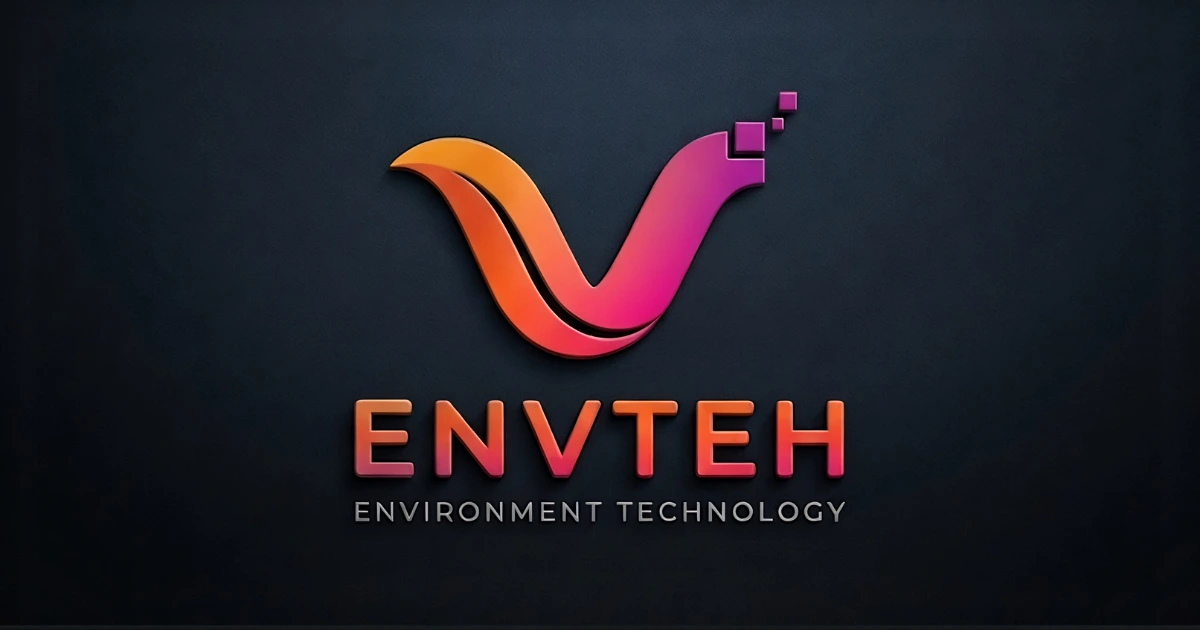
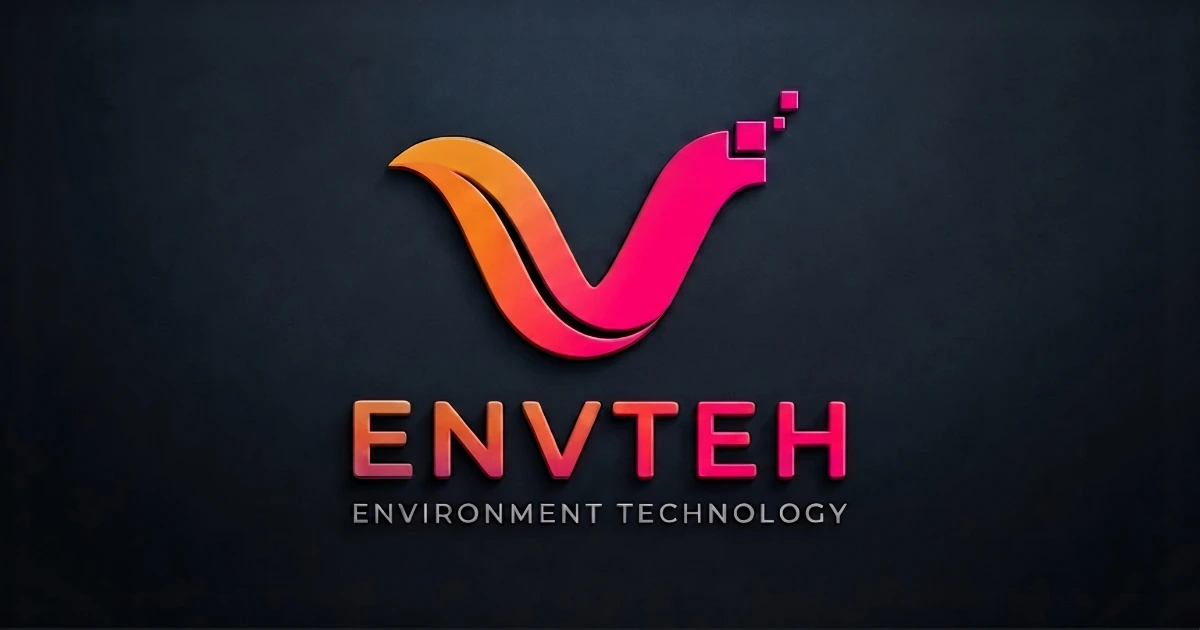
Updates

Changed region(s): [[0.2775, 0.6333, 0.7092, 0.8444], [0.3083, 0.1206, 0.6783, 0.573]]

diff --git a/index.html b/index.html
@@ -6,7 +6,7 @@
   <link rel="icon" type="image/svg+xml" href="/envteh/favicon.svg" />
   <meta name="viewport" content="width=device-width, initial-scale=1.0" />
 
-  <title>Envteh | Solusi Teknologi Masa Kini</title>
+  <title>ENVTEH | Solusi Teknologi Masa Kini</title>
   <meta name="description"
     content="Envteh menyediakan layanan dan solusi teknologi terbaik untuk kebutuhan bisnis Anda. Hubungi kami sekarang!" />
   <meta name="keywords"
@@ -18,14 +18,14 @@
 
   <meta property="og:type" content="website" />
   <meta property="og:url" content="https://haykalradiandra.github.io/envteh/" />
-  <meta property="og:title" content="Envteh | Solusi Teknologi Masa Kini" />
+  <meta property="og:title" content="ENVTEH | Solusi Teknologi Masa Kini" />
   <meta property="og:description"
     content="Envteh menyediakan layanan dan solusi teknologi terbaik untuk kebutuhan bisnis Anda." />
   <meta property="og:image" content="https://haykalradiandra.github.io/envteh/thumbnail-image.webp" />
 
   <meta name="twitter:card" content="summary_large_image" />
   <meta name="twitter:url" content="https://haykalradiandra.github.io/envteh/" />
-  <meta name="twitter:title" content="Envteh | Solusi Teknologi Masa Kini" />
+  <meta name="twitter:title" content="ENVTEH | Solusi Teknologi Masa Kini" />
   <meta name="twitter:description"
     content="Envteh menyediakan layanan dan solusi teknologi terbaik untuk kebutuhan bisnis Anda." />
   <meta name="twitter:image" content="https://haykalradiandra.github.io/envteh/thumbnail-image.webp" />